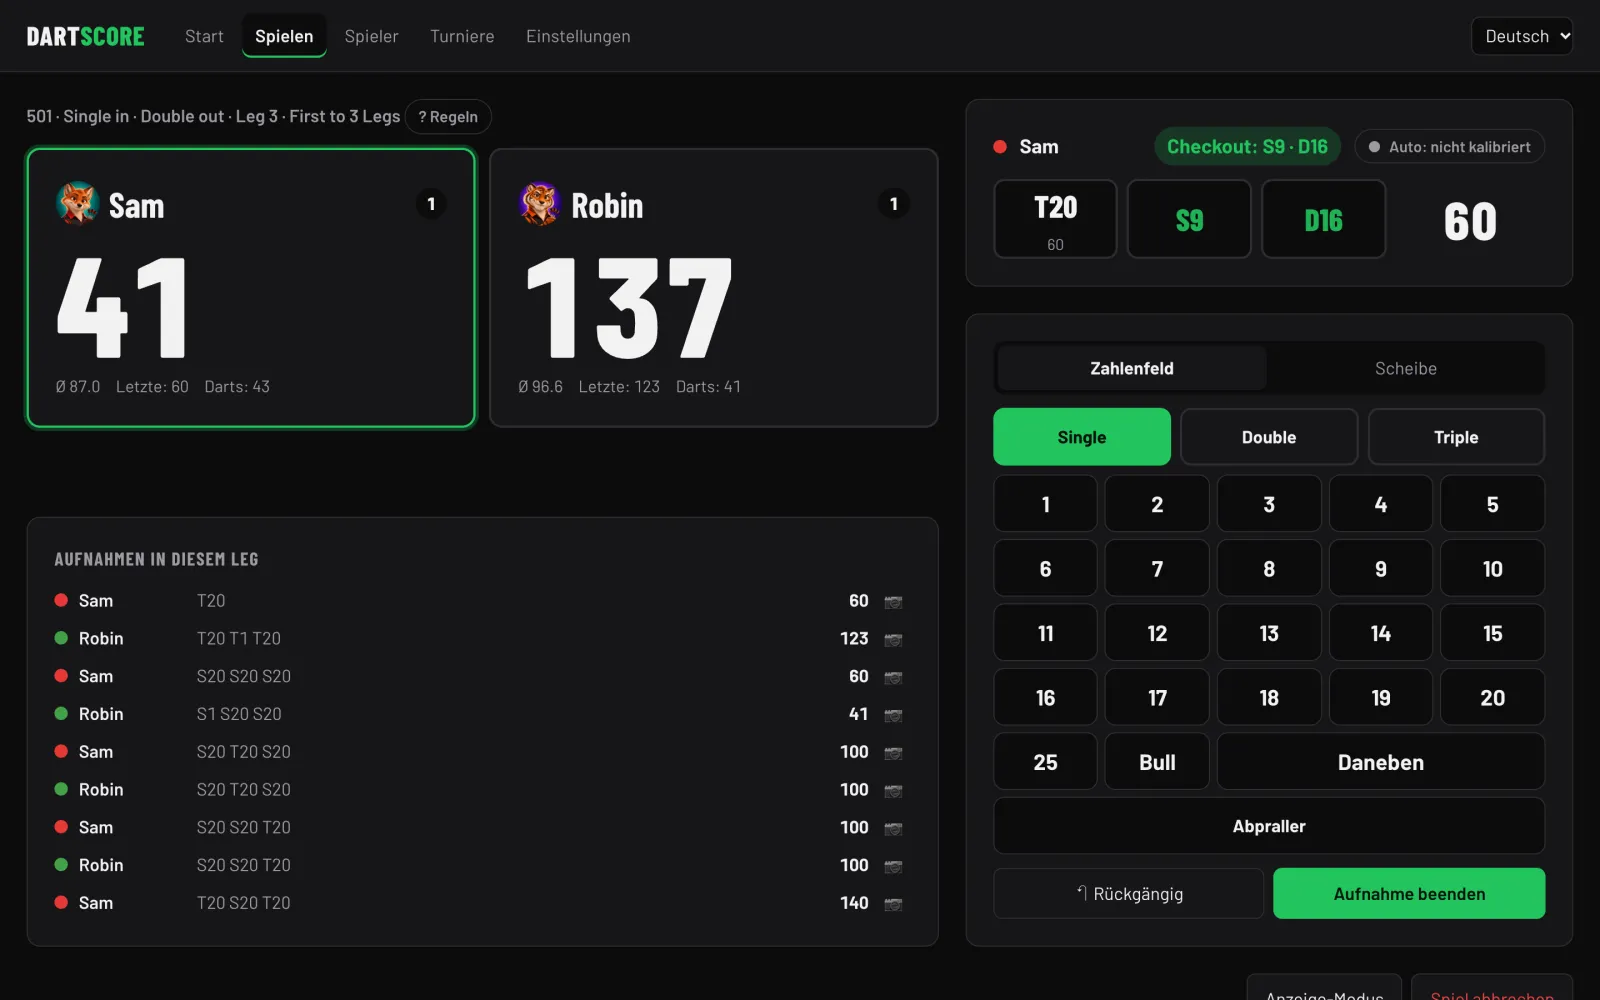
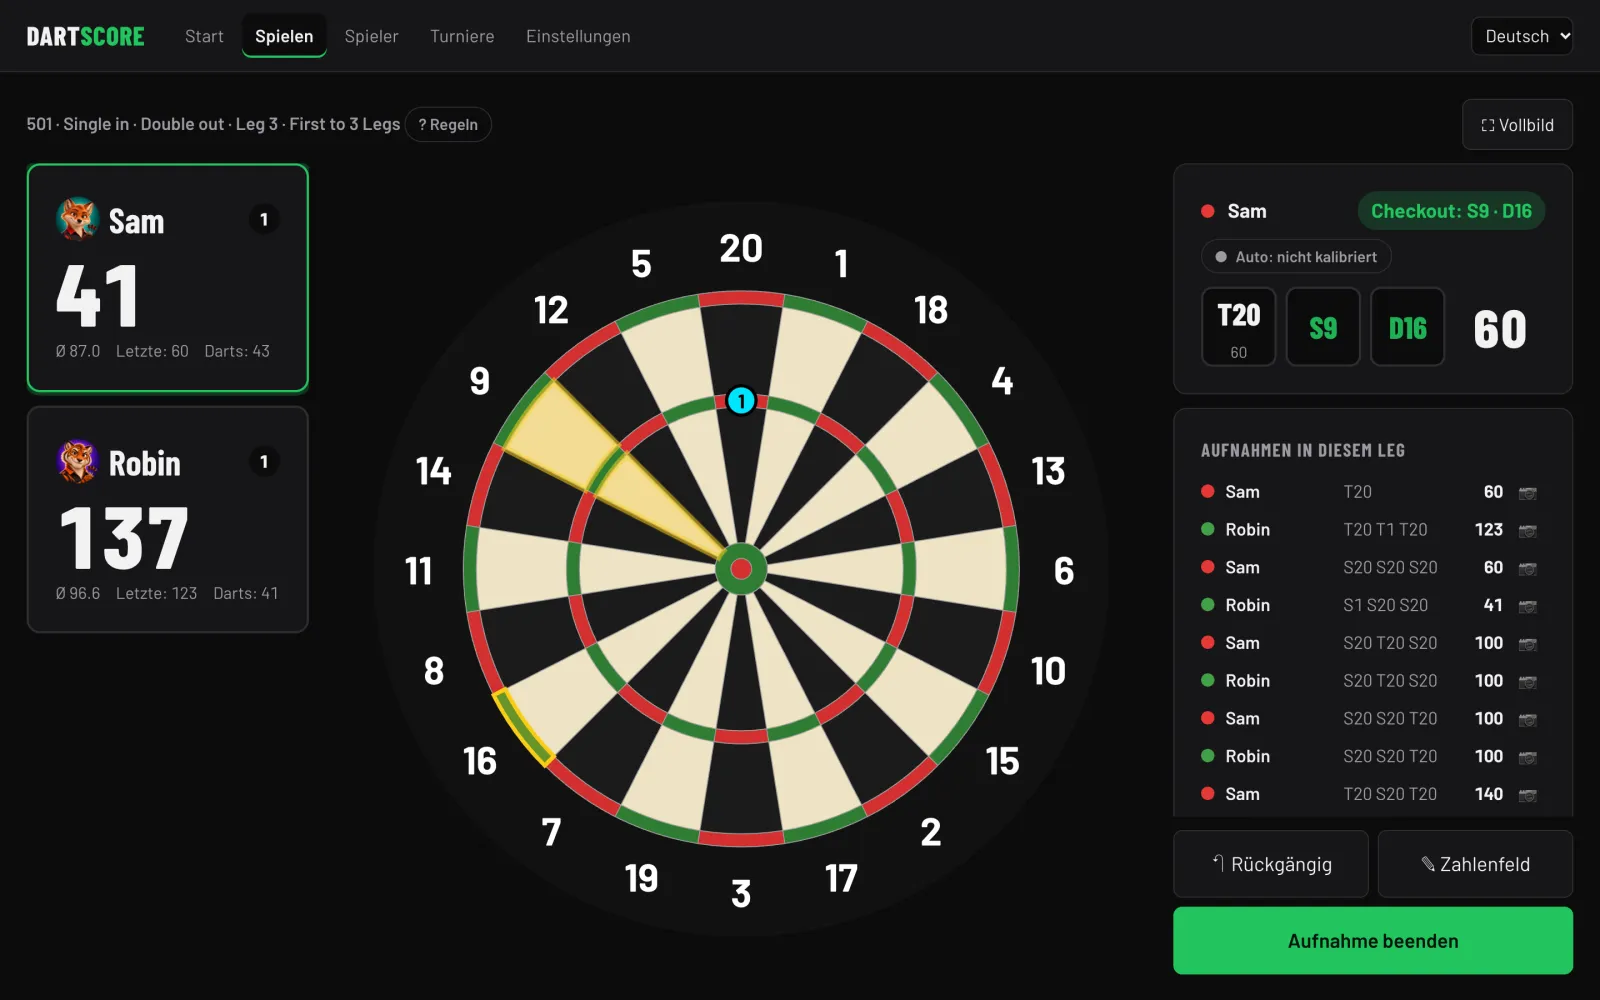
Project page: screenshots of the new play screen, correction popup and latest Fruit Samurai

diff --git a/index.html b/index.html
@@ -294,7 +294,7 @@
       <span class="chip">English &amp; German</span>
     </div>
     <div class="hero-shots">
-      <img class="shot" src="img/play.webp" alt="Live X01 match: large remaining scores, checkout suggestion and keypad for corrections" width="1600" height="1000">
+      <img class="shot" src="img/play.webp" alt="Live X01 match: the board with the checkout route in the middle, players at the side" width="1600" height="1000">
       <img class="phone" src="img/play-phone.webp" alt="The same match on a phone" width="780" height="1580" loading="lazy">
     </div>
   </div>
@@ -339,7 +339,7 @@
           <li><b>Stadium caller</b> with offline voice clips, sounds and celebration effects for 180s and checkouts</li>
         </ul>
       </div>
-      <img class="frame" src="img/play-board.webp" alt="Live game with the board input for corrections" width="1600" height="1000" loading="lazy">
+      <img class="frame" src="img/play-board.webp" alt="Enter &amp; correct popup with the keypad over the live game" width="1600" height="1000" loading="lazy">
     </div>
 
     <div class="split flip reveal">
@@ -728,9 +728,9 @@
     'Monster hunt: a monster on a glowing graveyard board, darts shown as cartridges': 'Monster-Jagd: ein Monster auf einer leuchtenden Friedhofs-Scheibe, die Darts als Patronen',
     'X01 in the Voltage theme: battery gauges, a neon board and a city skyline': 'X01 im Voltage-Design: Batterieanzeigen, Neon-Scheibe und Skyline',
     'The 16 gallery portraits': 'Die 16 Galerie-Porträts', 'Robot versions of the portraits worn by bots': 'Roboter-Versionen der Porträts für Bots',
-    'Live X01 match: large remaining scores, checkout suggestion and keypad for corrections': 'Laufendes X01-Match: große Restpunkte, Checkout-Vorschlag und Zahlenfeld für Korrekturen',
+    'Live X01 match: the board with the checkout route in the middle, players at the side': 'Laufendes X01-Match: die Scheibe mit dem Checkout-Weg in der Mitte, die Spieler an der Seite',
     'The same match on a phone': 'Dasselbe Match auf dem Handy',
-    'Live game with the board input for corrections': 'Laufendes Spiel mit der Scheiben-Eingabe für Korrekturen',
+    'Enter & correct popup with the keypad over the live game': 'Popup „Eingabe & Korrektur“ mit dem Zahlenfeld über dem laufenden Spiel',
     'Hit heatmap of a player with grouping values': 'Treffer-Heatmap eines Spielers mit Streuungswerten',
     'Player page with training plans and X01 statistics': 'Spielerseite mit Trainingsplänen und X01-Statistik',
   };
